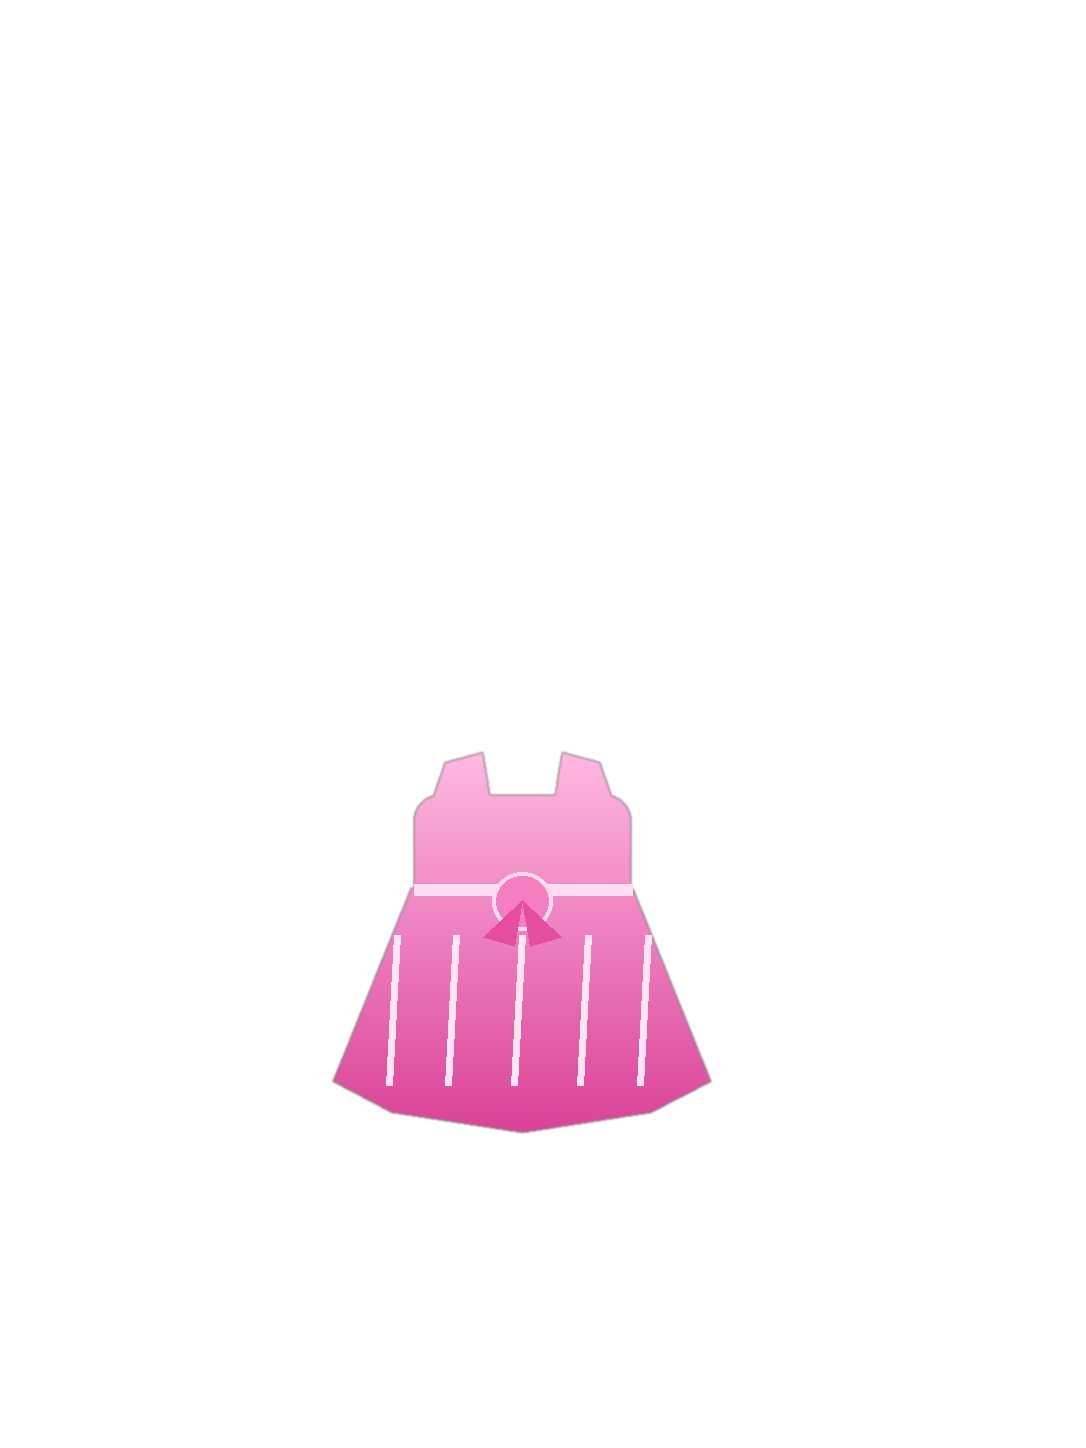
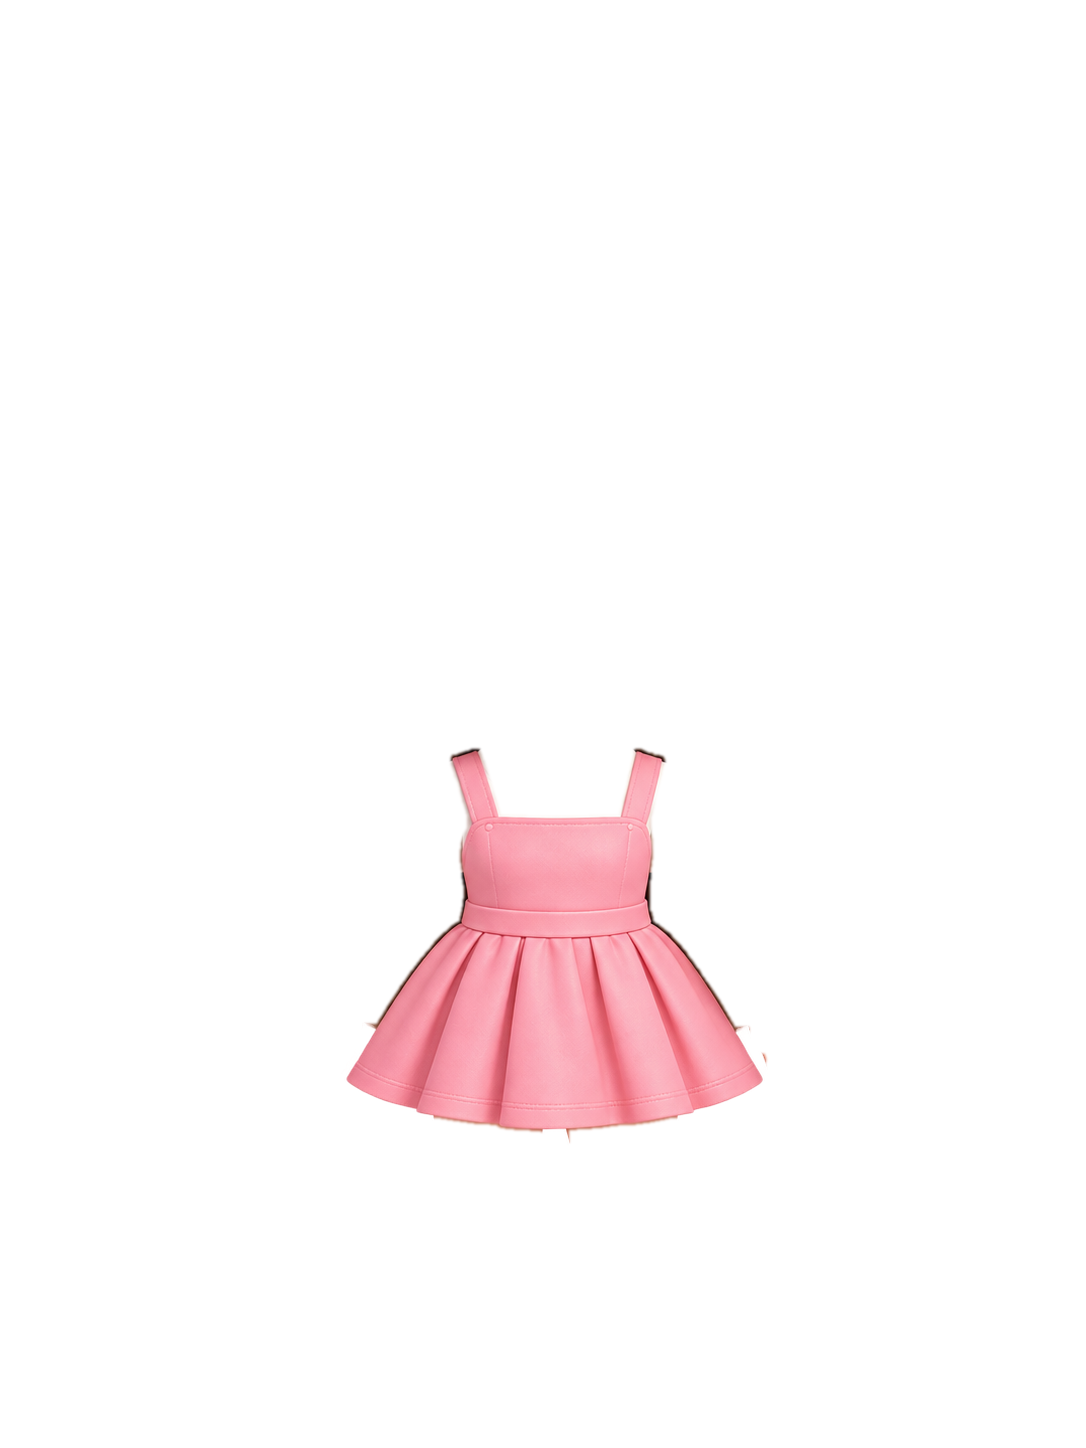
Replace flat overlays with fitted rendered clothing

Changed region(s): [[0.3039, 0.4972, 0.6989, 0.808]]

diff --git a/preview-layered-riki.html b/preview-layered-riki.html
@@ -10,7 +10,7 @@
 <img class="layer" src="assets/characters/riki-layered/head-base.webp" alt=""><img class="layer eyes" src="assets/characters/riki-layered/eye-left.webp" alt=""><img class="layer eyes" src="assets/characters/riki-layered/eye-right.webp" alt=""><img class="layer blink" src="assets/characters/riki-layered/eyes-blink.webp" alt="">
 <img class="layer closed" src="assets/characters/riki-layered/mouth-closed.webp" alt=""><img class="layer mouth" src="assets/characters/riki-layered/mouth-small.webp" alt=""><img class="layer mouth" src="assets/characters/riki-layered/mouth-wide.webp" alt=""><img class="layer mouth" src="assets/characters/riki-layered/mouth-o.webp" alt="">
 <img class="layer hand-left" src="assets/characters/riki-layered/hand-left.webp" alt=""><img class="layer hand-right" src="assets/characters/riki-layered/hand-right.webp" alt=""><img class="layer wearable accessory" src="assets/characters/riki-layered/accessory-earrings.webp" alt=""><img class="layer wearable accessory" src="assets/characters/riki-layered/accessory-hair-clips.webp" alt=""><img class="layer wearable accessory right-accessory" src="assets/characters/riki-layered/accessory-bracelet.webp" alt="">
-</div><div class="panel"><div class="label">Outfit</div><div class="row outfit-controls"><button data-outfit="none">Basics</button><button data-outfit="dress" class="selected">Pink dress</button><button data-outfit="mint">Mint top</button></div><div class="label">Extras</div><div class="row"><button id="shoes">Pink shoes</button><button id="accessories">Accessories</button><button id="wave">Small wave</button></div><div class="row"><button class="primary" id="talk">▶ Hear Riki talk</button><button id="blink">Blink</button><button id="stop">Stop</button></div></div><div class="proof"><b>Built for dress-up:</b> shoulders, neck, waist, hips, ears, hair, wrists, hands, and feet now have saved coordinates. Clothes use those coordinates, hands stay above the outfit, and hair stays behind the body.</div></section></main>
+</div><div class="panel"><div class="label">Outfit</div><div class="row outfit-controls"><button data-outfit="none">Basics</button><button data-outfit="dress" class="selected">Pink dress</button><button data-outfit="mint">Mint dress</button></div><div class="label">Extras</div><div class="row"><button id="shoes">Pink shoes</button><button id="accessories">Accessories</button><button id="wave">Small wave</button></div><div class="row"><button class="primary" id="talk">▶ Hear Riki talk</button><button id="blink">Blink</button><button id="stop">Stop</button></div></div><div class="proof"><b>Built for dress-up:</b> shoulders, neck, waist, hips, ears, hair, wrists, hands, and feet now have saved coordinates. Clothes use those coordinates, hands stay above the outfit, and hair stays behind the body.</div></section></main>
 <script>
 const $=s=>document.querySelector(s),$$=s=>[...document.querySelectorAll(s)],mouths=$$('.mouth'),closed=$('.closed'),eyes=$$('.eyes'),blink=$('.blink');let speechTimer=0,blinkBusy=false,autoBlink=0,talkBlink=0;
 function neutral(){clearInterval(speechTimer);speechTimer=0;mouths.forEach(x=>x.classList.remove('on'));closed.classList.remove('off')}

diff --git a/COORDINATION.md b/COORDINATION.md
@@ -4,7 +4,6 @@ Open draft pull requests are the live record of who is editing what. This file i
 Add a row when you open your draft PR and remove it in the same PR when you finish.
 
 | Who | Branch | Files | Status |
-| ChatGPT | `chatgpt/riki-fitted-clothing` | `preview-layered-riki.html`, `assets/characters/riki-layered/*`, `COORDINATION.md` | Replacing flat clothing with fitted rendered garments |
 
 ## Map of the code
 
